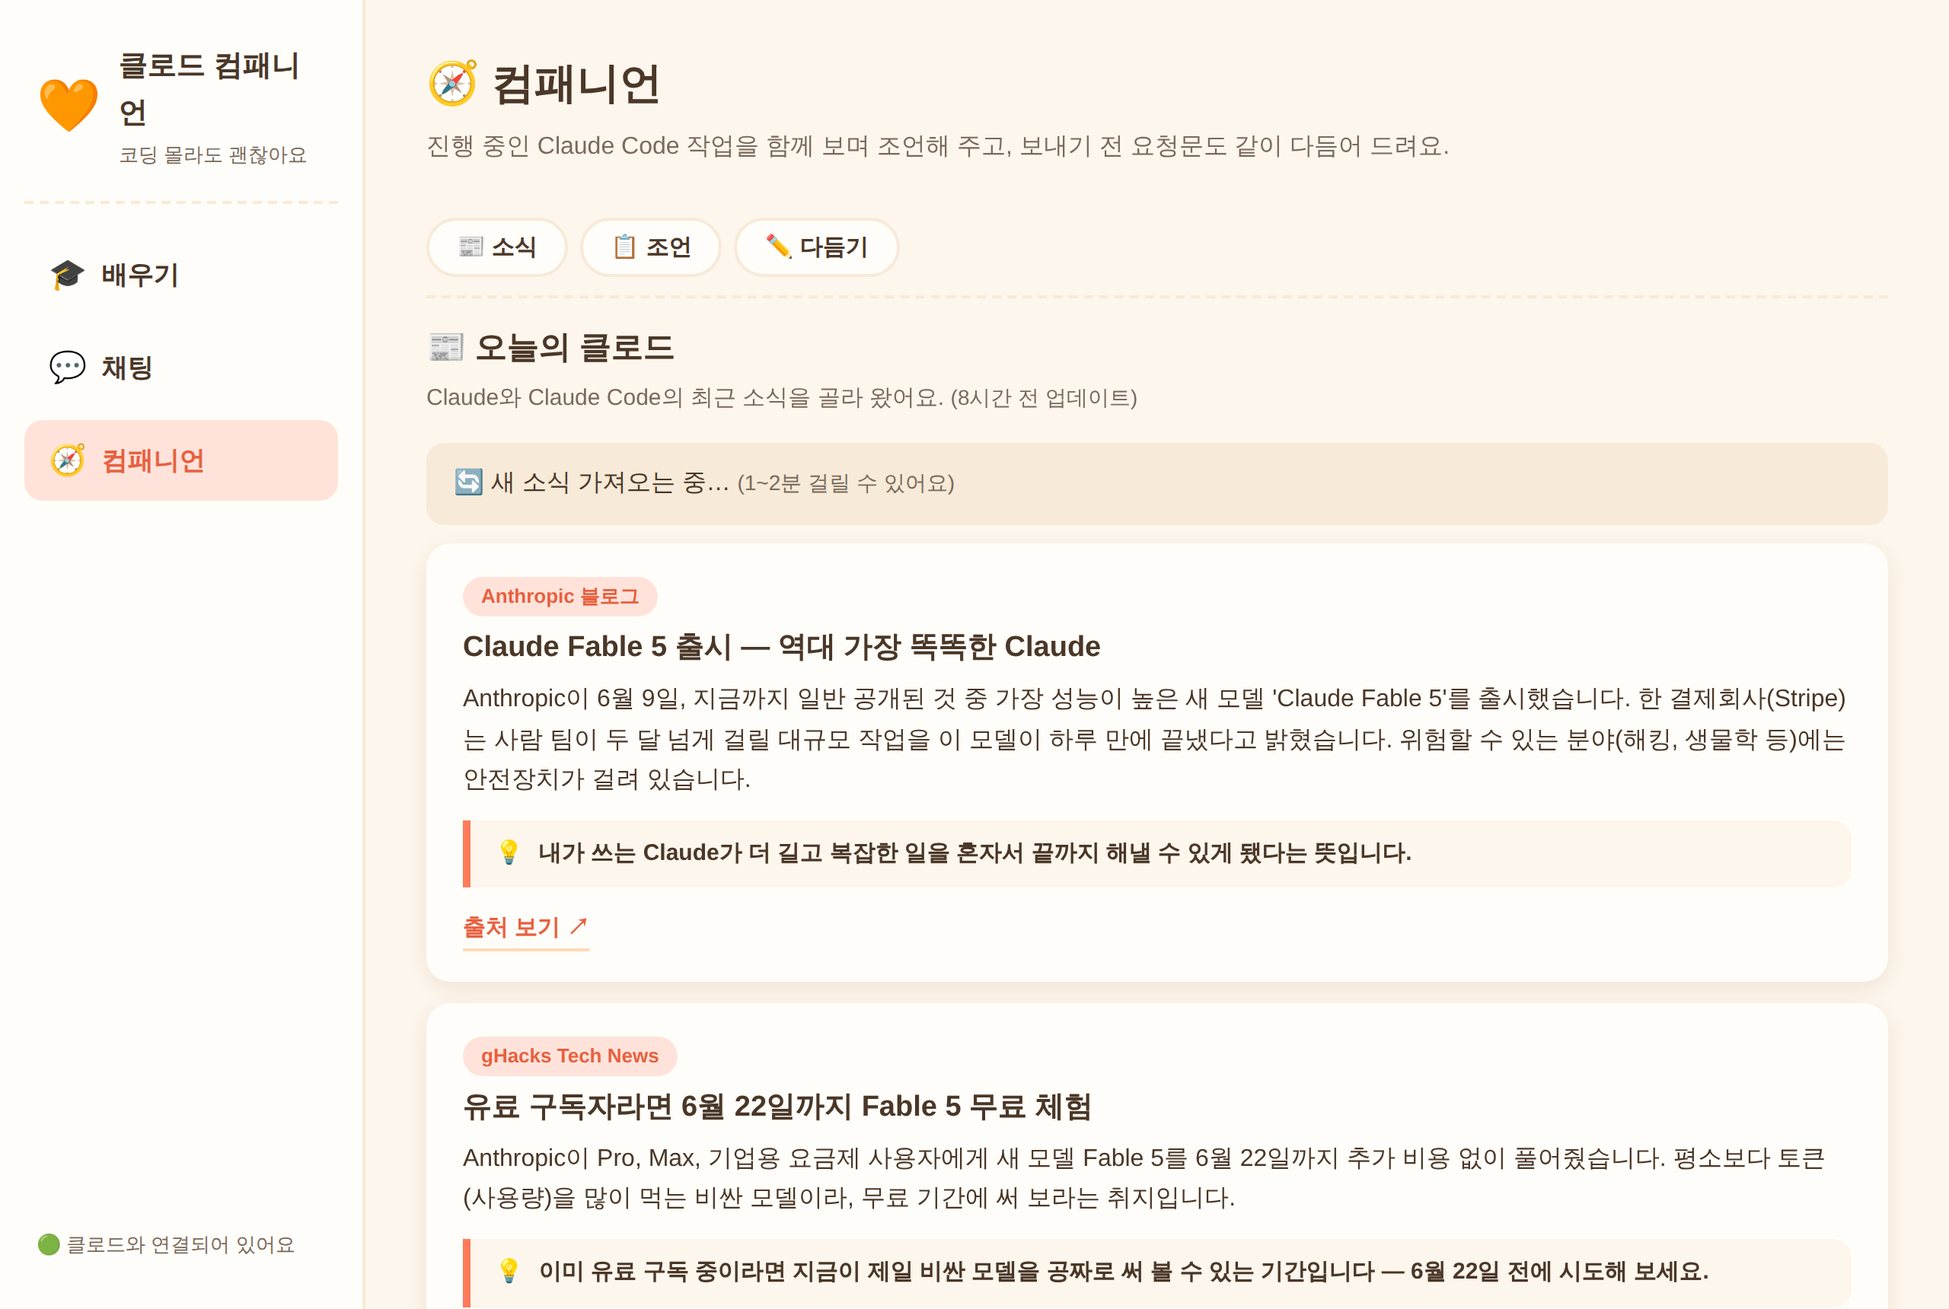
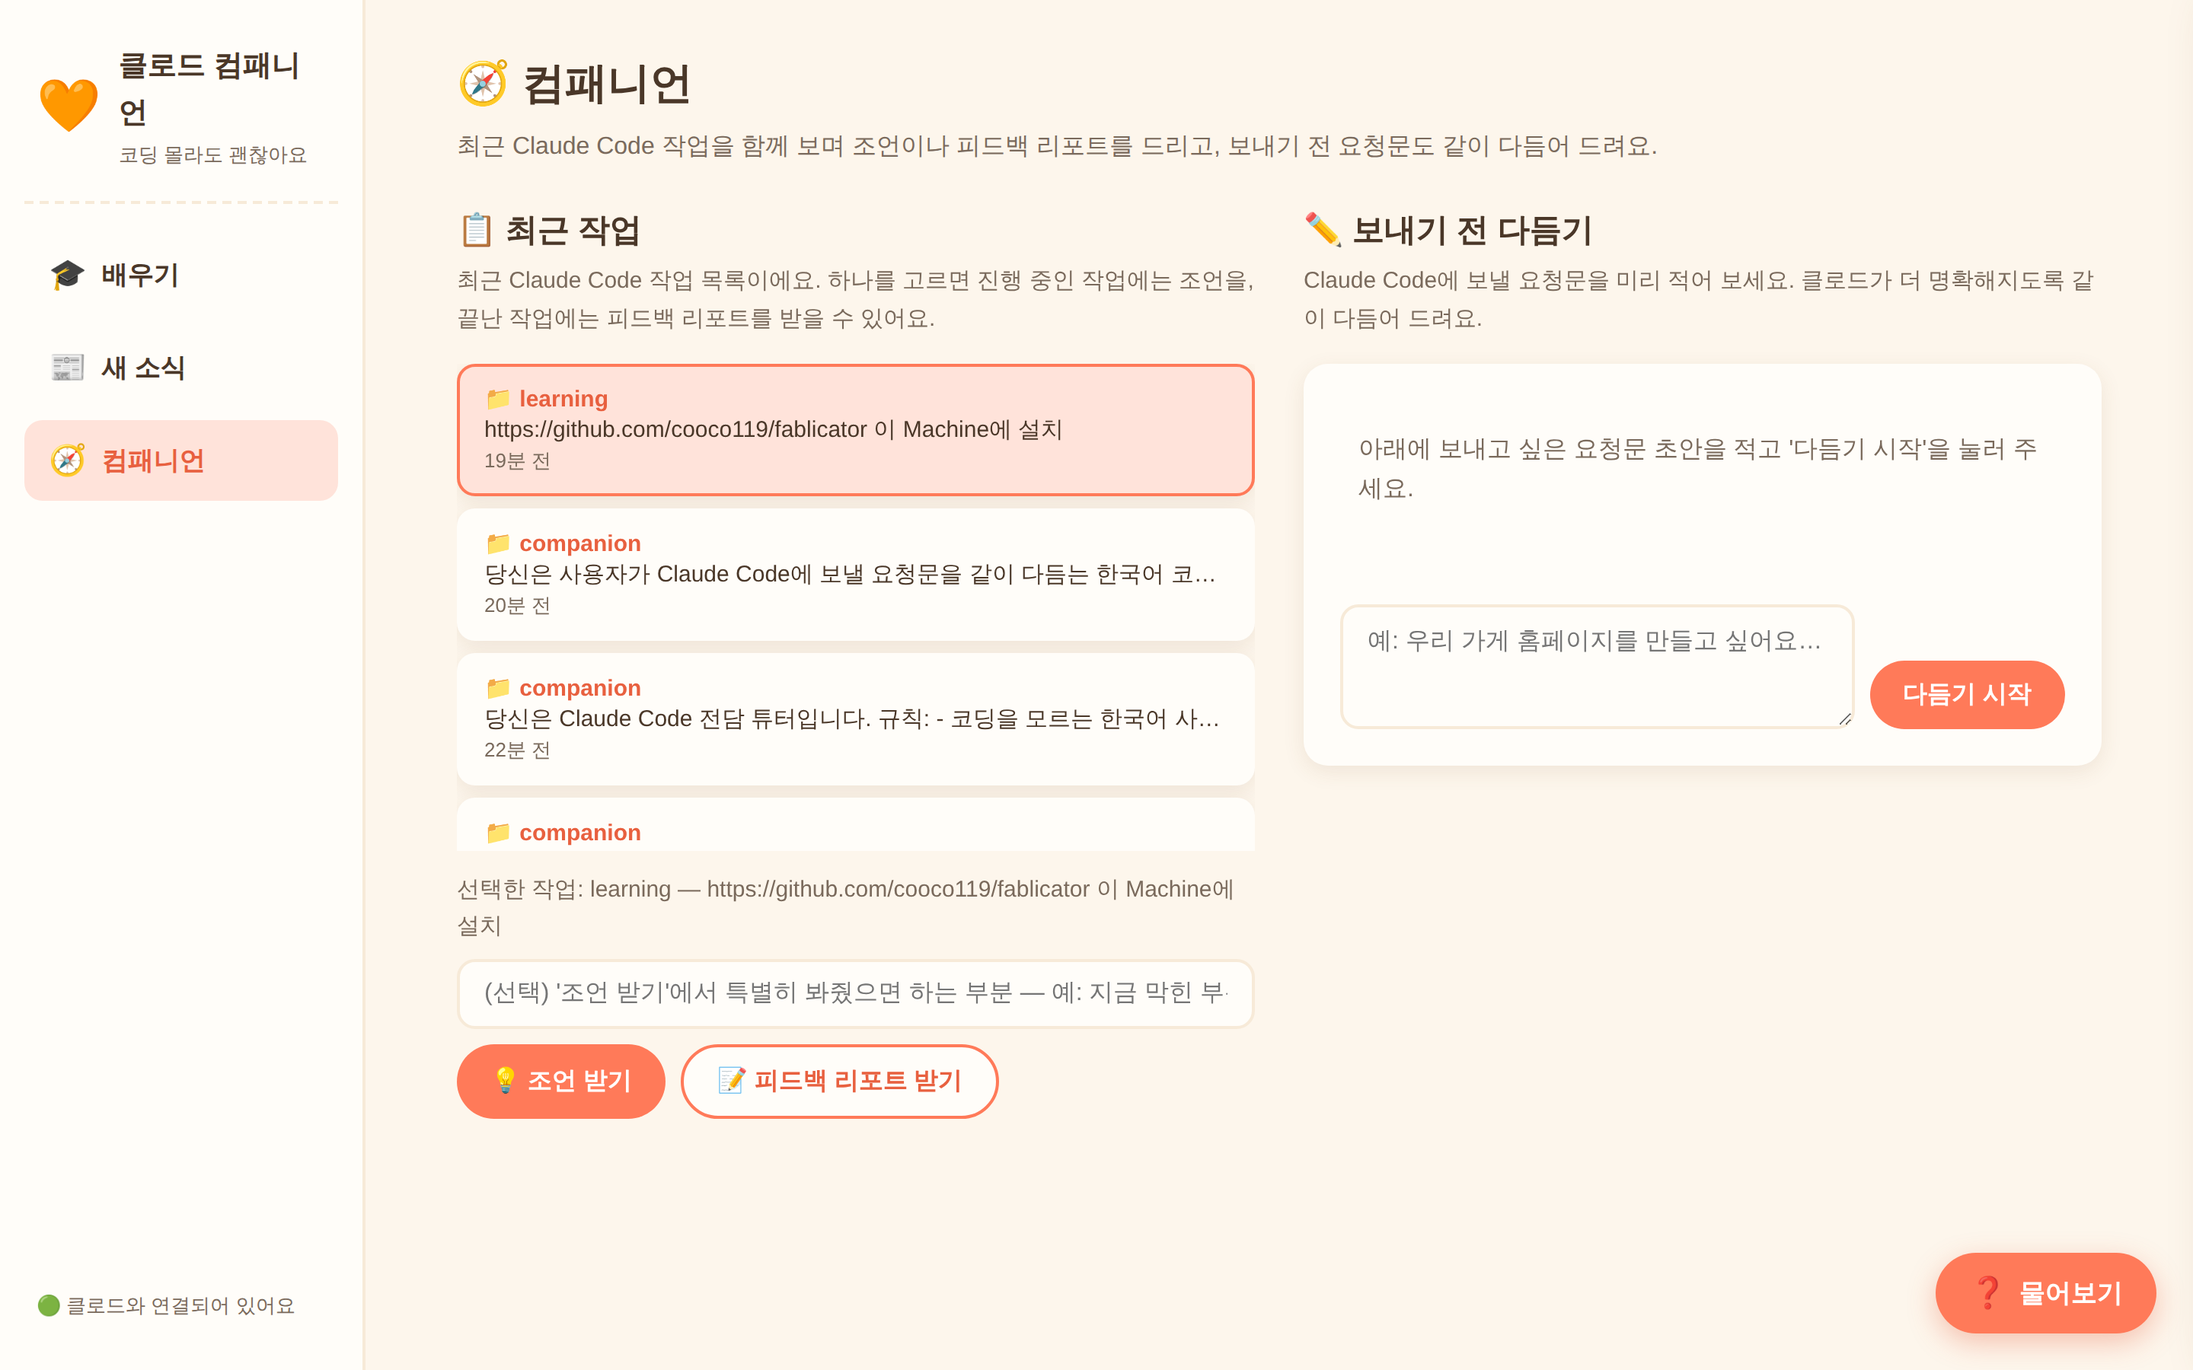
Apply review fixes

diff --git a/public/app.js b/public/app.js
@@ -191,6 +191,9 @@
 
   function openLesson(slug) {
     var contentEl = $('#lesson-content');
+    // 로딩 안내문/에러문이 이전 레슨 제목과 짝지어져 물어보기 컨텍스트로 새지 않도록
+    // 시작 시 제목을 비우고, 성공했을 때만 다시 설정한다.
+    currentLessonTitle = null;
     contentEl.innerHTML = '';
     contentEl.appendChild(el('div', 'loading-note', '레슨을 불러오는 중이에요…'));
     api('/api/lessons/' + encodeURIComponent(slug)).then(function (data) {
@@ -330,7 +333,7 @@
   }
 
   // ============================================================
-  // 🧭 컴패니언 — (좌) 진행 중인 작업: 조언 / 피드백 리포트
+  // 🧭 컴패니언 — (좌) 최근 작업: 조언 / 피드백 리포트
   // ============================================================
 
   var selectedCcSession = null;
@@ -367,6 +370,9 @@
         btn.appendChild(el('div', 'cc-session-preview', s.preview || '(미리보기 없음)'));
         btn.appendChild(el('div', 'cc-session-time', timeAgo(s.mtime)));
         btn.addEventListener('click', function () {
+          // 조언/리포트 생성 중에는 선택을 바꾸지 않는다 — 완성된 결과가
+          // 새로 선택한 작업에 대한 것처럼 보이는 혼동을 막는다.
+          if (workBusy) return;
           listEl.querySelectorAll('.cc-session-item').forEach(function (b) { b.classList.remove('active'); });
           btn.classList.add('active');
           selectedCcSession = s;
@@ -610,8 +616,9 @@
 
   var askSessionId = null;
   var askBusy = false;
-  var askContext = null;     // AskContext | null — 패널 열 때마다 새로 수집
-  var pendingQuote = null;   // 드래그 질문으로 들어온 인용 텍스트
+  var askContext = null;        // AskContext | null — 패널 열 때마다 새로 수집
+  var askContextSentKey = null; // 이번 대화에서 이미 보낸 컨텍스트 (같으면 재전송하지 않음)
+  var pendingQuote = null;      // 드래그 질문으로 들어온 인용 텍스트
   var askPanelOpen = false;
 
   // 현재 탭에서 "지금 보고 계신 것"을 AskContext로 수집한다. 볼 게 없으면 null.
@@ -674,11 +681,21 @@
     }
   }
 
+  // 첫 안내문을 실제 동작에 맞춘다 — 보낼 화면 내용이 없을 때는 '같이 보내드려요'라고 약속하지 않는다.
+  function updateAskEmptyNote() {
+    var note = askMessagesEl.querySelector('.empty-note');
+    if (!note) return;
+    note.textContent = askContext
+      ? 'Claude Code나 이 앱에 대해 무엇이든 물어보세요. 보고 있던 화면 내용도 같이 보내드려요. 😊'
+      : 'Claude Code나 이 앱에 대해 무엇이든 물어보세요. 😊';
+  }
+
   function openAskPanel(quoteText) {
     hideSelectionChip();
     // 열 때마다 현재 화면 기준으로 컨텍스트를 새로 수집 (×로 제외했어도 다시 열면 재수집)
     askContext = collectAskContext();
     renderContextChip();
+    updateAskEmptyNote();
     if (quoteText) setQuote(quoteText);
     askPanelOpen = true;
     askOverlayEl.classList.remove('hidden');
@@ -709,6 +726,7 @@
   askContextRemoveBtn.addEventListener('click', function () {
     askContext = null; // 이번 패널 세션에서는 컨텍스트 제외
     renderContextChip();
+    updateAskEmptyNote();
   });
 
   askQuoteRemoveBtn.addEventListener('click', function () {
@@ -718,6 +736,7 @@
   askNewBtn.addEventListener('click', function () {
     if (askBusy) return;
     askSessionId = null;
+    askContextSentKey = null; // 새 대화에서는 컨텍스트를 다시 보낼 수 있게 초기화
     setQuote(null);
     hideError(askErrorEl);
     askMessagesEl.innerHTML = '';
@@ -743,11 +762,13 @@
     if (note) note.remove();
 
     // 인용이 있으면 사용자 말풍선 위에 인용 블록으로 보여준다 (textContent로만)
+    // 인용 상자는 전송이 '성공'한 뒤에만 비운다 — 실패하면 그대로 남아 재시도 시 다시 전송된다.
     var quoteToSend = pendingQuote;
+    var quoteMsg = null;
     if (quoteToSend) {
-      var quoteMsg = el('blockquote', 'msg-quote', quoteToSend);
+      quoteMsg = el('blockquote', 'msg-quote', quoteToSend);
       askMessagesEl.appendChild(quoteMsg);
-      setQuote(null); // 한 번 보내면 인용은 비운다
+      askQuoteBoxEl.classList.add('hidden'); // 전송 중에는 상자를 잠시 숨긴다 (pendingQuote는 유지)
     }
     appendMessage(askMessagesEl, 'user', text);
     scrollToBottom(askMessagesEl);
@@ -755,16 +776,28 @@
     setAskBusy(true);
 
     var body = { question: text };
-    if (askContext) body.context = askContext;
+    // 같은 대화에서 이미 보낸 컨텍스트는 다시 보내지 않는다 — --resume 대화에
+    // 매 턴 동일한 4KB 컨텍스트 블록이 중복 주입되는 것을 막는다.
+    var contextKey = askContext ? JSON.stringify(askContext) : null;
+    var contextToSend = (askContext && contextKey !== askContextSentKey) ? askContext : null;
+    if (contextToSend) body.context = contextToSend;
     if (quoteToSend) body.quote = quoteToSend;
     if (askSessionId) body.sessionId = askSessionId;
 
     apiPost('/api/ask', body).then(function (data) {
       askSessionId = data.sessionId;
+      if (contextToSend) askContextSentKey = contextKey; // 전송 성공 — 같은 내용은 재전송하지 않음
+      if (quoteToSend) setQuote(null); // 한 번 '성공적으로' 보내면 인용은 비운다
       appendMessage(askMessagesEl, 'assistant', data.reply); // marked+DOMPurify 경유
       appendCostNote(askMessagesEl, data.costUsd);
       scrollToBottom(askMessagesEl);
     }).catch(function (err) {
+      // 전송 실패 — 인용 말풍선을 제거해 '보낸 것처럼' 보이지 않게 하고,
+      // 인용 상자(pendingQuote)는 복원해 재시도 시 함께 전송되게 한다.
+      if (quoteMsg) {
+        quoteMsg.remove();
+        askQuoteBoxEl.classList.remove('hidden');
+      }
       showError(askErrorEl, err.message);
     }).finally(function () {
       setAskBusy(false);
@@ -792,9 +825,17 @@
   var selectionChipText = null;       // 칩을 띄울 때의 선택 텍스트
   var selectionDebounceTimer = null;
   var SELECTION_DEBOUNCE_MS = 200;
-  var SELECTION_MIN_CHARS = 3;
+  // 한국어에는 '파일', '폴더', '백업' 같은 2글자 단어가 흔하므로 2글자부터 칩을 띄운다
+  // (레슨 2의 '모르는 단어 하나를 드래그' 실습과 일치).
+  var SELECTION_MIN_CHARS = 2;
 
   function hideSelectionChip() {
+    // 대기 중인 디바운스 타이머도 함께 취소 — 칩을 누른 직후 타이머가 발화해
+    // 열린 패널 위로 칩이 다시 떠오르는 것을 막는다.
+    if (selectionDebounceTimer) {
+      clearTimeout(selectionDebounceTimer);
+      selectionDebounceTimer = null;
+    }
     selectionChipEl.classList.add('hidden');
     selectionChipText = null;
   }
@@ -824,6 +865,7 @@
   }
 
   function handleSelectionChange() {
+    if (askPanelOpen) return; // 물어보기 패널이 열려 있는 동안에는 칩을 띄우지 않는다
     var sel = window.getSelection ? window.getSelection() : null;
     if (!sel || sel.rangeCount === 0 || sel.isCollapsed) {
       hideSelectionChip();
@@ -856,13 +898,25 @@
     }, SELECTION_DEBOUNCE_MS);
   });
 
+  function activateSelectionChip() {
+    var quote = selectionChipText;
+    hideSelectionChip();
+    if (quote) openAskPanel(quote.slice(0, CONTEXT_MAX_CHARS));
+  }
+
   // 칩 클릭: mousedown에서 preventDefault — 클릭으로 선택이 풀리기 전에 처리한다
   selectionChipEl.addEventListener('mousedown', function (e) {
     e.preventDefault();
     e.stopPropagation();
-    var quote = selectionChipText;
-    hideSelectionChip();
-    if (quote) openAskPanel(quote.slice(0, CONTEXT_MAX_CHARS));
+    activateSelectionChip();
+  });
+
+  // 키보드 사용자: 칩은 button이므로 Enter/Space로도 동작해야 한다
+  selectionChipEl.addEventListener('keydown', function (e) {
+    if (e.key === 'Enter' || e.key === ' ') {
+      e.preventDefault();
+      activateSelectionChip();
+    }
   });
 
   // 스크롤하거나 다른 곳을 클릭하면 칩을 숨긴다 (capture: .main 내부 스크롤도 포착)

diff --git a/public/index.html b/public/index.html
@@ -79,22 +79,22 @@
       <section class="view" id="view-companion">
         <header class="view-header">
           <h1>🧭 컴패니언</h1>
-          <p class="view-desc">진행 중인 Claude Code 작업을 함께 보며 조언해 주고, 보내기 전 요청문도 같이 다듬어 드려요.</p>
+          <p class="view-desc">최근 Claude Code 작업을 함께 보며 조언이나 피드백 리포트를 드리고, 보내기 전 요청문도 같이 다듬어 드려요.</p>
         </header>
 
         <div class="companion-split">
 
-          <!-- (좌) 진행 중인 작업 -->
+          <!-- (좌) 최근 작업 -->
           <div class="companion-col" id="companion-work">
-            <h2 class="section-title">📋 진행 중인 작업</h2>
-            <p class="section-desc">최근 Claude Code 작업 목록이에요. 하나를 고르면 조언이나 피드백 리포트를 받을 수 있어요.</p>
+            <h2 class="section-title">📋 최근 작업</h2>
+            <p class="section-desc">최근 Claude Code 작업 목록이에요. 하나를 고르면 진행 중인 작업에는 조언을, 끝난 작업에는 피드백 리포트를 받을 수 있어요.</p>
             <div id="cc-session-list" class="cc-session-list">
               <div class="loading-note">작업 목록을 불러오는 중이에요…</div>
             </div>
             <div id="advise-controls" class="advise-controls hidden">
               <div class="selected-session-label" id="selected-session-label"></div>
               <input type="text" id="focus-input" class="focus-input"
-                placeholder="(선택) 특별히 봐줬으면 하는 부분이 있나요? 예: 지금 막힌 부분" />
+                placeholder="(선택) '조언 받기'에서 특별히 봐줬으면 하는 부분 — 예: 지금 막힌 부분 (피드백 리포트에는 적용되지 않아요)" />
               <div class="work-btn-row">
                 <button id="advise-btn" class="btn btn-primary">💡 조언 받기</button>
                 <button id="feedback-btn" class="btn btn-secondary">📝 피드백 리포트 받기</button>
@@ -158,10 +158,11 @@
         <span class="ask-context-chip-label">지금 보고 계신 것</span>
         <span id="ask-context-chip-text" class="ask-context-chip-text"></span>
       </span>
-      <button type="button" id="ask-context-remove" class="ask-chip-remove" aria-label="컨텍스트 제외">×</button>
+      <button type="button" id="ask-context-remove" class="ask-chip-remove"
+        aria-label="이번엔 화면 내용 안 보내기" title="이번엔 화면 내용 안 보내기 (패널을 다시 열거나 '새 대화'를 누르면 다시 켜져요)">×</button>
     </div>
     <div id="ask-messages" class="chat-messages ask-messages">
-      <div class="empty-note">Claude Code나 이 앱에 대해 무엇이든 물어보세요. 보고 있던 화면 내용도 같이 보내드려요. 😊</div>
+      <div class="empty-note">Claude Code나 이 앱에 대해 무엇이든 물어보세요. 😊</div>
     </div>
     <div id="ask-error" class="error-box hidden"></div>
     <div id="ask-thinking" class="thinking-note hidden">

diff --git a/public/style.css b/public/style.css
@@ -108,7 +108,9 @@ body {
 .main {
   flex: 1;
   overflow-y: auto;
-  padding: 32px 40px 60px;
+  /* 하단 패딩은 우하단 ❓ FAB(고정, 약 50px 높이 + 24px 여백)가
+     '다듬기 시작' 같은 페이지 맨 아래 버튼을 가리지 않도록 FAB 점유 영역보다 크게 둔다. */
+  padding: 32px 40px 110px;
 }
 
 .view { display: none; max-width: 1080px; margin: 0 auto; }
@@ -956,7 +958,7 @@ body {
   .brand { border-bottom: none; margin-bottom: 0; padding-bottom: 4px; }
   .tabs { flex-direction: row; margin-left: auto; }
   .sidebar-footer { display: none; }
-  .main { padding: 20px 16px 40px; }
+  .main { padding: 20px 16px 100px; } /* 모바일에서도 FAB가 하단 버튼을 가리지 않게 */
   .learn-layout { flex-direction: column; }
   .lesson-list-pane { width: 100%; }
   .ask-panel { width: 100vw; border-left: none; }

diff --git a/README.md b/README.md
@@ -69,22 +69,22 @@ http://localhost:3456
 |---|---|
 | 🎓 **배우기** | 비개발자 눈높이로 쓴 한국어 레슨을 차례대로 읽는 곳이에요. "클로드 코드가 뭐예요?"부터 시작합니다. |
 | 📰 **새 소식** | 최신 Claude·Claude Code 소식을 쉬운 한국어 요약으로 모아 보는 곳이에요. 소식마다 "이게 나에게 왜 좋은가" 한 줄이 함께 붙어 있어서, 뉴스를 몰라도 흐름을 따라갈 수 있어요. |
-| 🧭 **컴패니언** | 진행 중인 Claude Code 작업을 읽고 조언이나 다른 관점을 들려주고, 끝난 작업에 대해서는 **피드백 리포트**("이번에 잘하신 점과, 다음엔 이렇게 말해보세요" 식의 따뜻한 돌아보기)를 만들어 주며, AI에게 보낼 요청문을 보내기 전에 같이 다듬어 주는 코치입니다. |
+| 🧭 **컴패니언** | 최근 Claude Code 작업을 읽고 조언이나 다른 관점을 들려주고, 끝난 작업에 대해서는 **피드백 리포트**("이번에 잘하신 점과, 다음엔 이렇게 말해보세요" 식의 따뜻한 돌아보기)를 만들어 주며, AI에게 보낼 요청문을 보내기 전에 같이 다듬어 주는 코치입니다. |
 | ❓ **물어보기** | 어느 화면에서든 우하단 물음표 버튼 — 보던 내용을 알고 답해주는 튜터, 글자를 드래그해서 바로 물어볼 수도 있어요. |
 
 실제 화면은 이렇게 생겼어요.
 
-**🎓 배우기** — 레슨을 클릭해서 읽어요.
+**🎓 배우기** — 레슨을 클릭해서 읽어요. 오른쪽 아래에 ❓ 물어보기 버튼이 항상 떠 있어요.
 
-<img src="assets/screenshots/learn-lesson.png" alt="배우기 탭 — 레슨 '클로드 코드가 뭐예요?'를 읽는 화면" width="720">
+<img src="assets/screenshots/learn-lesson.png" alt="배우기 탭 — 레슨 '클로드 코드가 뭐예요?'를 읽는 화면, 우하단에 ❓ 물어보기 버튼" width="720">
 
-**❓ 물어보기** — 평범한 메신저처럼 묻고 답해요.
+**❓ 물어보기** — ❓ 버튼을 누르면 오른쪽에 패널이 열려요. 보고 있던 화면 내용을 알고 답해 줘요.
 
-<img src="assets/screenshots/chat.png" alt="채팅 탭 — 대화 목록과 입력창" width="720">
+<img src="assets/screenshots/ask-panel.png" alt="물어보기 패널 — 읽던 레슨을 컨텍스트로 보여주며 질문하고 답하는 화면" width="720">
 
-**🧭 컴패니언** — 진행 중인 작업 조언과 피드백 리포트, 보내기 전 다듬기.
+**🧭 컴패니언** — 최근 작업 조언과 피드백 리포트, 보내기 전 다듬기.
 
-<img src="assets/screenshots/companion.png" alt="컴패니언 탭 — 오늘의 클로드 소식 카드" width="720">
+<img src="assets/screenshots/companion.png" alt="컴패니언 탭 — 최근 작업 목록과 조언/피드백 리포트 버튼, 보내기 전 다듬기" width="720">
 
 ## 문제 해결 FAQ
 

diff --git a/docs/learn/06-safety-and-trust.md b/docs/learn/06-safety-and-trust.md
@@ -8,7 +8,7 @@
 
 **비용 이야기.** Claude Code는 보통 Claude 유료 구독(Pro/Max)에 포함되어 사용량 한도 안에서 쓸 수 있어요. 별도 API(종량제 — 쓴 만큼 내는 방식) 키로 쓰는 경우에는 대화마다 몇십~몇백 원 수준의 비용이 발생할 수 있습니다. 이 앱의 물어보기도 호출마다 비용 정보를 함께 받아와서, 비용이 발생한 경우 답변 아래에 "💲 이번 호출 비용" 으로 작게 표시해 줍니다(구독 요금제 안에서 쓰는 경우에는 표시되지 않을 수 있어요). 휴대폰 데이터처럼 "무제한인지, 쓴 만큼 내는지" 내 요금제를 한 번 확인해 두면 마음이 편해요.
 
-그리고 안심은 돌아보기에서도 와요. 컴패니언 탭의 **세션 피드백 리포트**를 받아 보면, 끝난 작업에 대해 "잘하신 점"과 "다음엔 이렇게 말해보세요"를 짚어 줘서 내가 잘 쓰고 있는지 스스로 확인할 수 있습니다.
+그리고 안심은 돌아보기에서도 와요. 컴패니언 탭의 '최근 작업'에서 작업을 하나 고르고 **📝 피드백 리포트 받기** 버튼을 누르면, 끝난 작업에 대해 "잘하신 점"과 "다음엔 이렇게 말해보세요"를 짚어 줘서 내가 잘 쓰고 있는지 스스로 확인할 수 있습니다.
 
 ## 직접 해보기
 
